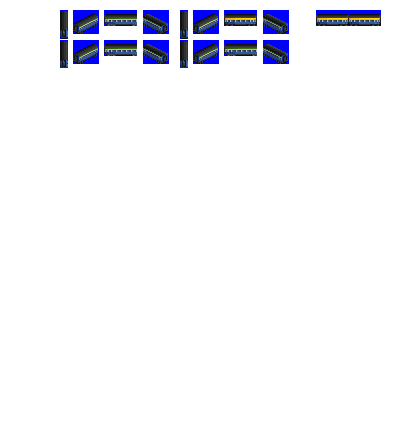
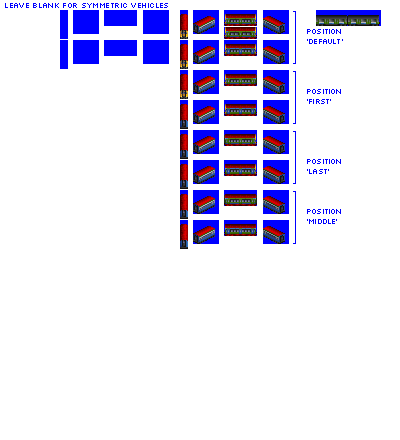
Change: WIP on providing sprites for high speed pax units

diff --git a/src/train.py b/src/train.py
@@ -253,6 +253,8 @@ class Consist(object):
             express_roles = ['express_1', 'express_2']
             if self.role in express_roles:
                 return speeds_by_track_type['express'][self.gen - 1]
+            elif self.role in ['pax_high_speed']:
+                return speeds_by_track_type['very_high_speed'][self.gen - 1]
             else:
                 return speeds_by_track_type['standard'][self.gen - 1]
         else:
@@ -387,6 +389,28 @@ class PassengerEngineConsist(EngineConsist):
 class PassengerEngineRailcarConsist(PassengerEngineConsist):
     """
     Consist for a pax railcar.  Just a sparse subclass to force the gestalt_graphics and allow_flip
+    """
+
+    def __init__(self, **kwargs):
+        super().__init__(**kwargs)
+        self.allow_flip = True
+        # Graphics configuration
+        self.generate_unit_roofs = True
+        self.roof_type = 'pax_mail_smooth'
+        # 2 liveries, should match local and express liveries of pax cars for this generation
+        # position variants
+        # * unit with driving cabs both ends
+        # * unit with driving cab front end
+        # * unit with driving cab rear end
+        # * unit with no cabs (center car)
+        # ruleset will combine these to make multiple-units 1, 2, or 3 vehicles long, then repeating the pattern
+        spriterow_group_mappings = {'pax': {'default': 0, 'first': 1, 'last': 2, 'special': 3}}
+        self.gestalt_graphics = GestaltGraphicsConsistSpecificLivery(spriterow_group_mappings, consist_ruleset="pax_railcars")
+
+
+class PassengerEngineVeryHighSpeedConsist(PassengerEngineConsist):
+    """
+    Consist for a pax very high speed train (TGV etc).  Just a sparse subclass to force the gestalt_graphics and allow_flip
     """
 
     def __init__(self, **kwargs):
@@ -1308,8 +1332,8 @@ class DieselRailcarUnit(DieselEngineUnit):
 
     def __init__(self, **kwargs):
         super().__init__(**kwargs)
-        # diesel railcars are all symmetric
-        self._symmetry_type = kwargs.get('symmetry_type', 'symmetric')
+        # the cab magic won't work unless it's asymmetric eh? :)
+        self._symmetry_type = kwargs.get('symmetry_type', 'asymmetric')
 
 
 class ElectricEngineUnit(Train):

diff --git a/src/vehicles/velaro_thing.py b/src/vehicles/velaro_thing.py
@@ -1,6 +1,6 @@
-from train import PassengerEngineConsist, ElectricPaxUnit
+from train import PassengerEngineVeryHighSpeedConsist, ElectricPaxUnit
 
-consist = PassengerEngineConsist(id='velaro_thing',
+consist = PassengerEngineVeryHighSpeedConsist(id='velaro_thing',
                                  base_numeric_id=130,
                                  name='Brenner',
                                  role='pax_high_speed',
@@ -15,11 +15,5 @@ consist.add_unit(type=ElectricPaxUnit,
                  weight=55,
                  vehicle_length=8,
                  capacity=40,
-                 spriterow_num=0)
-
-consist.add_unit(type=ElectricPaxUnit,
-                 weight=55,
-                 vehicle_length=8,
-                 capacity=40,
-                 spriterow_num=0)
-
+                 spriterow_num=0,
+                 repeat=2)

diff --git a/src/vehicles/pendolino_thing.py b/src/vehicles/pendolino_thing.py
@@ -1,6 +1,6 @@
-from train import PassengerEngineConsist, ElectricPaxUnit
+from train import PassengerEngineVeryHighSpeedConsist, ElectricPaxUnit
 
-consist = PassengerEngineConsist(id='pendolino_thing',
+consist = PassengerEngineVeryHighSpeedConsist(id='pendolino_thing',
                                  base_numeric_id=980,
                                  name='Blaze',
                                  role='pax_high_speed',

diff --git a/src/vehicles/apt_thing.py b/src/vehicles/apt_thing.py
@@ -1,6 +1,6 @@
-from train import PassengerEngineConsist, ElectricPaxUnit
+from train import PassengerEngineVeryHighSpeedConsist, ElectricPaxUnit
 
-consist = PassengerEngineConsist(id='apt_thing',
+consist = PassengerEngineVeryHighSpeedConsist(id='apt_thing',
                                  base_numeric_id=3060,
                                  name='Helm Wind',
                                  role='pax_high_speed',
